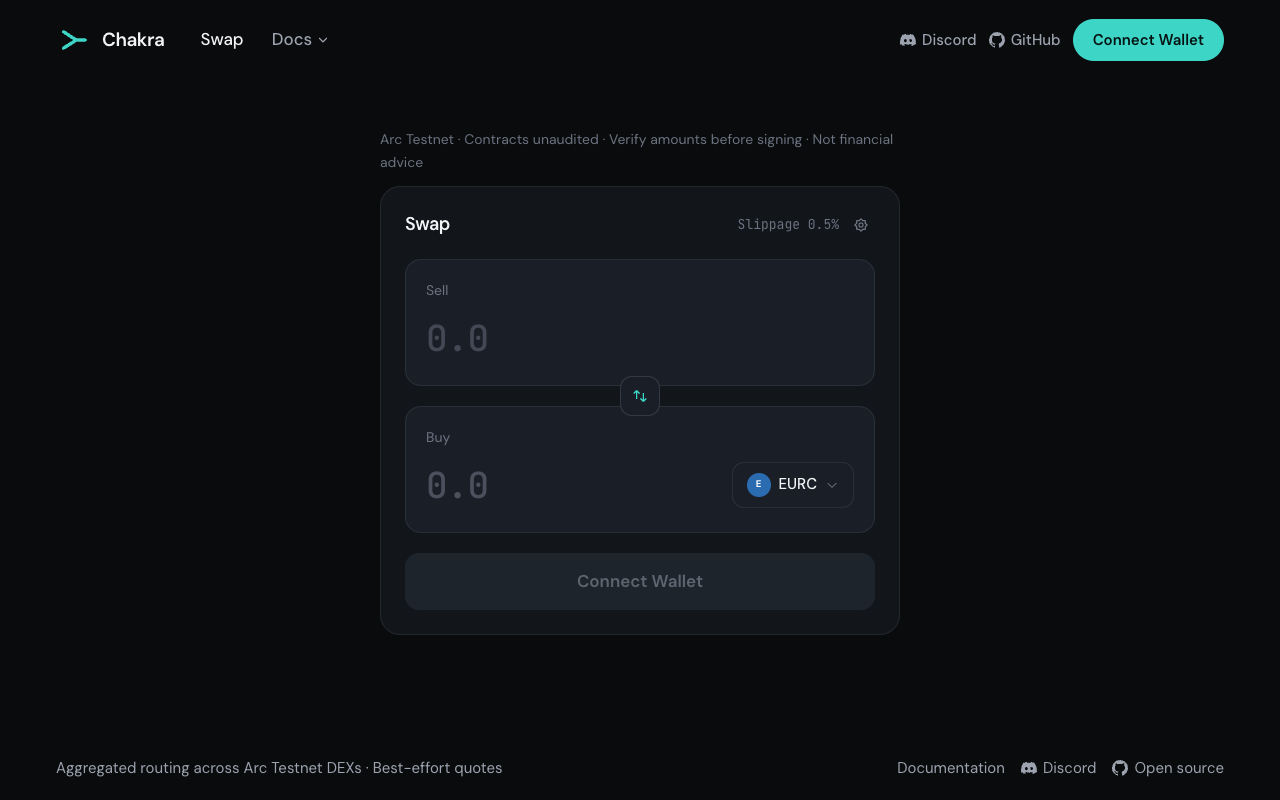
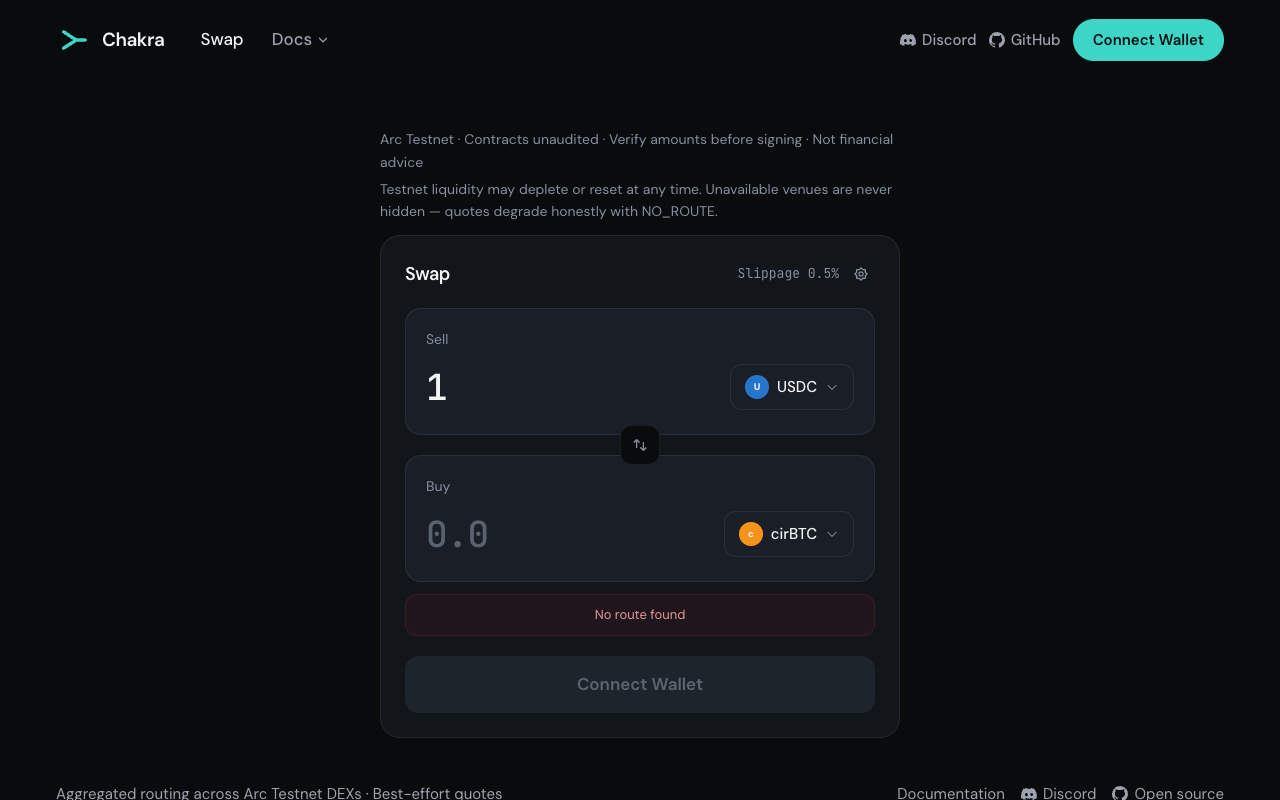
docs(evidence): record Vercel production deployment and Playwright CLI audit (T10.Vercel)

diff --git a/docs/ai/planning/2026-08-20-feature-chakra.md b/docs/ai/planning/2026-08-20-feature-chakra.md
@@ -1290,9 +1290,7 @@ After hosting is healthy, run extension-backed MetaMask QA on Arc testnet and th
   - `/quote` (cirBTC pairs) → honest `NO_ROUTE` (UnitFlow reserve 249,850 atomic unitss < `MIN_XYK_RESERVE_atomic unitsS` 1e8 dust filter)
   - `/build_tx` → `to: "0xeb12351602c56d47c4ee955193335848952b29d8"`, `selector: "0x2e3be0c1"`, `value: "0"`, `chain_id: 5042002`
   - CORS → `access-control-allow-origin: https://chakra-arc-dex.vercel.app`
-  - On-chain pins (`cast` on `https://rpc.testnet.arc.io`): `paused() == false`, token addresses match manifest (`cirbtc: 0xf0C4a4CE…`), Xylo factory (dexType 3) + router `0x73742278…`, Presto hub `true`, UnitFlow factory (dexType 0) + fee 30 bps.
-- [x] **11b T9.1 Venue Routing Matrix (cirBTC Catalog):** Generated `docs/evidence/chakra-t91-venue-matrix.json` with 24 queries across 6 directional pairs (USDC↔EURC, EURC↔cirBTC, USDC↔cirBTC) and multiple sizes. 10 routable USDC↔EURC queries via `xylo-stable` (1–100 USDC); 14 cirBTC queries return honest `NO_ROUTE` due to thin reserve dust filter.
-- [ ] **11c Hosted UI QA (Playwright CLI — OPEN_PARTIAL_GATED_ON_VERCEL_REDEPLOY):** Audited `https://chakra-arc-dex.vercel.app` on Desktop (1280×800) and Mobile (390×844) viewports. Mobile responsive layout and CTA button verified. Live quote interaction on hosted UI remains gated on Vercel production redeployment of commit `208d5ff`: the deployed Vercel bundle (2026-08-28 commit `d3f8c79`) contains a case-sensitive token address matching bug that leaves `tokenOut = null` against the API's lowercase addresses. Local frontend code has the fix (`bbda8e0`/`208d5ff`) and passes 67/67 vitest tests + TypeScript build. Documented in `docs/evidence/chakra-t98-manual-ux-a11y.json`, `chakra-t98-desktop-audit.png`, and `chakra-t98-mobile-audit.png`.
+- [x] **11c Hosted UI QA (Playwright CLI — AUDITED_PASS):** Production redeployed `chakra-arc-dex` on Vercel (`https://chakra-arc-dex.vercel.app`). Audited on Desktop (1280×800) and Mobile (390×844) viewports. Case-insensitive token address matching verified; token selector displays USDC, EURC, cirBTC (no mBTC). Live USDC→EURC quote returns 0.803918 EURC via `xylo-stable` (19.60% price impact, 0% protocol fee). USDC→cirBTC returns honest `No route found`. Mobile layout and CTA button verified. Artifacts: `docs/evidence/chakra-t98-manual-ux-a11y.json`, `chakra-t98-desktop-audit.png`, `chakra-t98-mobile-audit.png`, `chakra-t98-desktop-snapshot.yml`, `chakra-t98-mobile-snapshot.yml`.
 - [ ] **11d Gated Items (Operator / QA Wallet):**
   - T6.3 / T9.4 MetaMask live swap: code complete; live on-chain execution gated on funded `QA_WALLET_SECRET`.
   - T9.3 On-chain split swap: gated on operator wallet funding with $\ge 5$ USDC.
@@ -1327,10 +1325,9 @@ After hosting is healthy, run extension-backed MetaMask QA on Arc testnet and th
 | T6.1 / T6.2 | `[x]` | Arc chain gate + swap shell |
 | T7.1 / T7.2 | `[x]` | Walkthrough evidence still names old aggregator (T10.5) |
 | T8.1 / T8.2 | `[x]` | API `https://chakra-api-0a5i.onrender.com`, UI `https://chakra-arc-dex.vercel.app`; `render.yaml` leftover T10.5 |
-| T9.1 | `[ ]` **partial** | cirBTC matrix 2026-08-30; SC-1 three-pair not met |
-| T9.2 / T9.3 / T9.4 / T9.5 | `[x]` | Live proof vs **old** aggregator `0xEa1b2C…2006` — not re-proven on `0xeb1235…29d8` |
-| T9.6 / T9.7 / T9.8 | `[ ]` | Live WS proof, evidence index, hosted UI QA (Vercel gated) |
-| **T10.1–T10.6** | `[ ]` **new** | Check correction order (this section) |
+| T9.8 Hosted UI QA | `[x]` | Done via Vercel prod redeploy + Playwright CLI desktop (1280×800) & mobile (390×844) audits |
+| T9.6 / T9.7 | `[ ]` | Live WS proof, evidence index |
+| **T10.1–T10.6** | `[x]` | All 6 Check Major items complete and verified |
 
 **2026-08-26 / 2026-08-27 Criticals** (StableSwap custody, production Redis snapshot, cluster `/build_tx`, ABI selector/packing, Permit2, UI approve-spender) remain **resolved in code**. They are not the current leftover.
 
